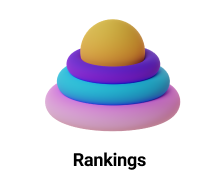
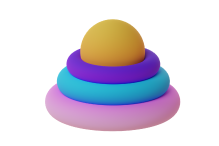
ranking done

diff --git a/src/screens/PortfolioScreen/index.tsx b/src/screens/PortfolioScreen/index.tsx
@@ -34,7 +34,7 @@ const portfolioCoins = [
     valueUSD: 30120,
   },
   {
-    id: 3,
+    id: 4,
     name: "Ethereum",
     image:
       "https://assets.coingecko.com/coins/images/279/large/ethereum.png?1595348880",
@@ -43,7 +43,7 @@ const portfolioCoins = [
     valueUSD: 30120,
   },
   {
-    id: 3,
+    id: 5,
     name: "Ethereum",
     image:
       "https://assets.coingecko.com/coins/images/279/large/ethereum.png?1595348880",
@@ -52,7 +52,7 @@ const portfolioCoins = [
     valueUSD: 30120,
   },
   {
-    id: 3,
+    id: 6,
     name: "Ethereum",
     image:
       "https://assets.coingecko.com/coins/images/279/large/ethereum.png?1595348880",
@@ -61,7 +61,7 @@ const portfolioCoins = [
     valueUSD: 30120,
   },
   {
-    id: 3,
+    id: 7,
     name: "Ethereum",
     image:
       "https://assets.coingecko.com/coins/images/279/large/ethereum.png?1595348880",
@@ -70,7 +70,7 @@ const portfolioCoins = [
     valueUSD: 30120,
   },
   {
-    id: 3,
+    id: 8,
     name: "Ethereum",
     image:
       "https://assets.coingecko.com/coins/images/279/large/ethereum.png?1595348880",
@@ -79,7 +79,7 @@ const portfolioCoins = [
     valueUSD: 30120,
   },
   {
-    id: 3,
+    id: 9,
     name: "Ethereum",
     image:
       "https://assets.coingecko.com/coins/images/279/large/ethereum.png?1595348880",
@@ -88,7 +88,7 @@ const portfolioCoins = [
     valueUSD: 30120,
   },
   {
-    id: 3,
+    id: 10,
     name: "Ethereum",
     image:
       "https://assets.coingecko.com/coins/images/279/large/ethereum.png?1595348880",
@@ -97,7 +97,7 @@ const portfolioCoins = [
     valueUSD: 30120,
   },
   {
-    id: 3,
+    id: 11,
     name: "Ethereum",
     image:
       "https://assets.coingecko.com/coins/images/279/large/ethereum.png?1595348880",
@@ -106,7 +106,7 @@ const portfolioCoins = [
     valueUSD: 30120,
   },
   {
-    id: 3,
+    id: 12,
     name: "Ethereum",
     image:
       "https://assets.coingecko.com/coins/images/279/large/ethereum.png?1595348880",
@@ -115,7 +115,7 @@ const portfolioCoins = [
     valueUSD: 30120,
   },
   {
-    id: 3,
+    id: 13,
     name: "Ethereum",
     image:
       "https://assets.coingecko.com/coins/images/279/large/ethereum.png?1595348880",
@@ -124,7 +124,7 @@ const portfolioCoins = [
     valueUSD: 30120,
   },
   {
-    id: 3,
+    id: 14,
     name: "Ethereum",
     image:
       "https://assets.coingecko.com/coins/images/279/large/ethereum.png?1595348880",
@@ -133,7 +133,7 @@ const portfolioCoins = [
     valueUSD: 30120,
   },
   {
-    id: 3,
+    id: 15,
     name: "Ethereum",
     image:
       "https://assets.coingecko.com/coins/images/279/large/ethereum.png?1595348880",
@@ -142,7 +142,7 @@ const portfolioCoins = [
     valueUSD: 30120,
   },
   {
-    id: 3,
+    id: 16,
     name: "Ethereum",
     image:
       "https://assets.coingecko.com/coins/images/279/large/ethereum.png?1595348880",

diff --git a/src/screens/RankingScreen/index.tsx b/src/screens/RankingScreen/index.tsx
@@ -1,12 +1,51 @@
-import React from 'react'
-import { View, Text } from 'react-native'
+import React from "react";
+import { View, Text, Image, FlatList } from "react-native";
+import UserRankingItem from "../../components/UserRankingItem";
 
+import styles from './styles'
+const image = require("../../../assets/images/Saly-20.png");
+
+const portfolioCoins = [
+  {
+    id: 1,
+    name: "Virtual Dollars",
+    image:
+      "https://assets.coingecko.com/coins/images/325/large/Tether-logo.png?1598003707",
+    networth: 6942,
+  },
+  {
+    id: 2,
+    name: "Bitcoin",
+    image:
+      "https://assets.coingecko.com/coins/images/1/large/bitcoin.png?1547033579",
+    networth: 59420,
+  },
+  {
+    id: 3,
+    name: "Ethereum",
+    image:
+      "https://assets.coingecko.com/coins/images/279/large/ethereum.png?1595348880",
+    networth: 30120,
+  }
+];
 const RankingScreen = () => {
-    return (
-        <View style={{flex: 1, justifyContent: 'center', alignItems: 'center'}}>
-            <Text>RankingScreen Component</Text>
-        </View>
-    )
-}
+  return (
+    <View style={styles.root}>
+      <FlatList
+        style={{ width: "100%" }}
+        data={portfolioCoins}
+        renderItem={({ item, index }) => <UserRankingItem user={item} place={index+1} />}
+        showsVerticalScrollIndicator={false}
+        ListHeaderComponentStyle={{alignItems: 'center'}}
+        ListHeaderComponent={() => (
+          <>
+            <Image style={styles.image} source={image} />
+            <Text style={styles.label}>Rankings</Text>
+          </>
+        )}
+      />
+    </View>
+  );
+};
 
-export default RankingScreen
+export default RankingScreen;

diff --git a/src/components/UserRankingItem/index.tsx b/src/components/UserRankingItem/index.tsx
@@ -1,0 +1,33 @@
+import React from "react";
+import { View, Text, Image } from "react-native";
+
+import styles from './styles'
+export interface MarketCoinProps {
+  user: {
+    image: string;
+    name: string;
+    networth: number;
+  },
+  place : number
+  ;
+}
+const UserRankingItem = (props: MarketCoinProps) => {
+  const { user: { name, image, networth }, place } = props;
+
+  return (
+    <View style={styles.root}>
+      <View style={styles.left}>
+        <Text style={styles.place}>{place}</Text>
+        <Image style={styles.image} source={{ uri: image }} />
+        <View>
+          <Text style={styles.name}>{name}</Text>
+        </View>
+      </View>
+      <View style={{ alignItems: "flex-end" }}>
+        <Text style={styles.value} >${networth}</Text>
+      </View>
+    </View>
+  );
+};
+
+export default UserRankingItem;

diff --git a/src/components/UserRankingItem/styles.ts b/src/components/UserRankingItem/styles.ts
@@ -1,0 +1,42 @@
+import { StyleSheet } from 'react-native'
+
+const styles = StyleSheet.create({
+    root: {
+        flexDirection: 'row',
+        flex: 1,
+        justifyContent: 'space-between',
+        alignItems: 'center',
+        height: 50,
+        margin: 10
+    },
+    left: {
+        flexDirection: 'row',
+        alignItems: 'center'
+    },
+    image: {
+        width: 50,
+        height: 50,
+        marginRight: 10
+    },
+    name: {
+        fontWeight: 'bold',
+        paddingBottom: 5
+    },
+    symbol: {
+        color: '#6b6b6b',
+    },
+    value: {
+        fontSize: 18,
+        fontWeight: '600',
+        paddingBottom: 5
+    },
+    place: {
+        fontSize: 18,
+        width: 20
+    },
+    amount: {
+        color: 'gray'
+    }
+})
+
+export default styles

diff --git a/src/screens/RankingScreen/styles.ts b/src/screens/RankingScreen/styles.ts
@@ -1,0 +1,21 @@
+import { StyleSheet } from 'react-native'
+
+const styles = StyleSheet.create({
+    root: {
+        flex: 1,
+        alignItems: 'center',
+        backgroundColor: 'white',
+        padding: 20,
+        marginTop: 40
+    },
+    image: {
+        height: 175,
+        resizeMode: 'contain',
+    },
+    label: {
+        fontSize: 18,
+        fontWeight: 'bold'
+    }
+})
+
+export default styles

diff --git a/src/screens/MarketScreen/index.tsx b/src/screens/MarketScreen/index.tsx
@@ -2,7 +2,7 @@ import React from "react";
 import { View, Text, Image, FlatList } from "react-native";
 import MarketCoin from "../../components/MarketCoin";
 
-import styles from "./styles";
+import styles from './styles'
 const image = require("../../../assets/images/Saly-17.png");
 
 const portfolioCoins = [
